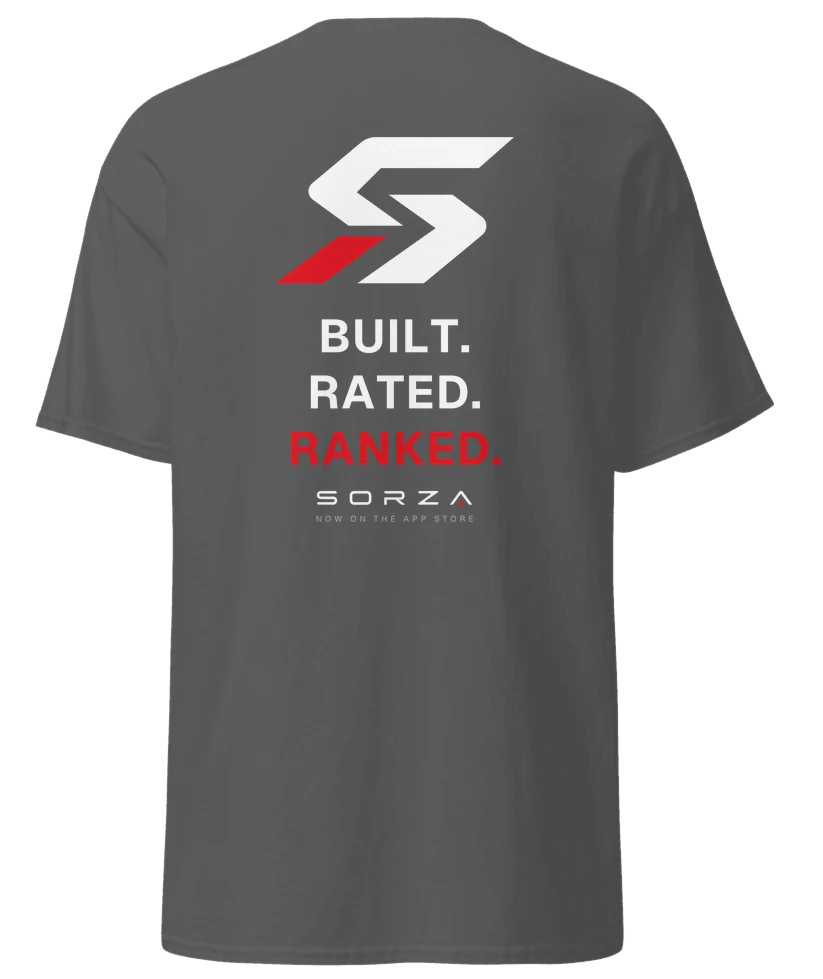
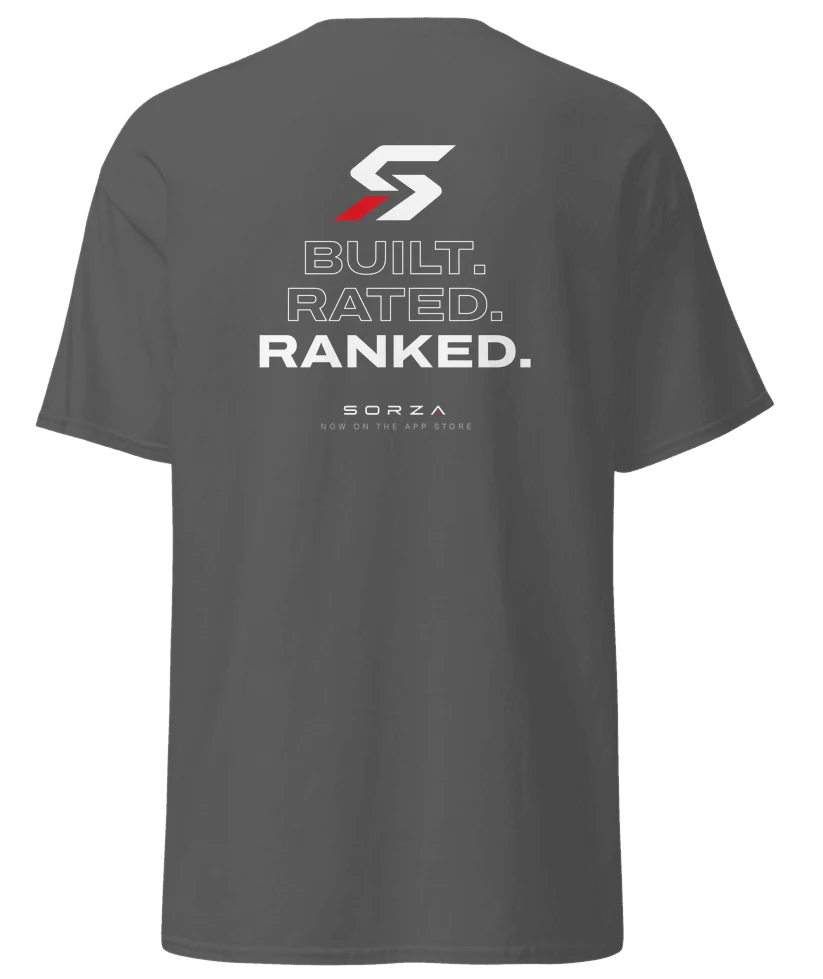
Redesign the Built. Rated. Ranked. tee
The S on the chest; on the back the S over BUILT. RATED. RANKED., the
first two as outlines and RANKED solid, then the wordmark. Vector, at
300 DPI. Red RANKED goes muddy on dark heather, so the grey shirt takes
its own print file (printFor: { grey: "heather" }) with it in white.

Changed region(s): [[0.3038, 0.1226, 0.6379, 0.5209]]

diff --git a/src/lib/merch/products.ts b/src/lib/merch/products.ts
@@ -11,9 +11,10 @@
  * Print files: public/merch/print, in two inks: dark for the light shirts
  * (white, sky), white for black and grey. The core designs come from
  * scripts/make-tee-print-files.py at 1800x2400 (150 DPI); the Limited Vice
- * City tee's ("sunset") colour-fade S, palms and type are vector, rendered
- * separately at 3600x4800 (300 DPI) over the same 12x16 in. area, so they
- * print as sharp as Printful prints. Shop photos:
+ * City tee ("sunset") and the reworked Built. Rated. Ranked. are vector,
+ * rendered separately at 3600x4800 (300 DPI) over the same 12x16 in. area,
+ * so they print as sharp as Printful prints. Built. Rated. Ranked. has a
+ * third print file for dark heather (see printFor). Shop photos:
  * public/merch/3d and /4k, on Printful's own blank photos.
  */
 export type TeeDesignId = "sunset" | "big-s" | "built-rated-ranked" | "wordmark";
@@ -82,6 +83,9 @@ export interface TeeDesign {
   detail: string;
   /** A limited drop: no new orders after this instant (UTC). */
   endsAt?: string;
+  /** Shirts that take their own print file instead of their colour's
+   * usual ink, e.g. "heather" for a version tuned for dark heather. */
+  printFor?: Partial<Record<TeeColor, string>>;
 }
 
 export const TEE_DESIGNS: TeeDesign[] = [
@@ -106,7 +110,9 @@ export const TEE_DESIGNS: TeeDesign[] = [
     name: "Built. Rated. Ranked.",
     colors: CORE_COLORS,
     defaultColor: "white",
-    detail: "S on the chest, the S and “Built. Rated. Ranked.” on the back",
+    detail: "The S on the chest; on the back the S over “Built. Rated. Ranked.”, from outline to solid",
+    // red RANKED goes muddy on dark heather, so that shirt's is white
+    printFor: { grey: "heather" },
   },
   {
     id: "wordmark",
@@ -182,7 +188,7 @@ export function teeColorForVariant(variantId: number): TeeColor | null {
 /** The print files Printful downloads: the front and back of the design,
  * in the ink that shows on that shirt. */
 export function teePrintFiles(designId: TeeDesignId, color: TeeColor, siteUrl: string): { type: "front" | "back"; url: string }[] {
-  const ink = TEE_COLOR_INFO[color].ink;
+  const ink = teeById(designId)?.printFor?.[color] ?? TEE_COLOR_INFO[color].ink;
   return (["front", "back"] as const).map((type) => ({ type, url: `${siteUrl}/merch/print/${designId}-${type}-${ink}.png` }));
 }
 

diff --git a/src/lib/merch/products.test.ts b/src/lib/merch/products.test.ts
@@ -104,6 +104,13 @@ describe("tee catalog", () => {
     // sky is a light shirt, so it takes the dark-ink print like white
     expect(teePrintFiles("sunset", "sky", "https://sorza.net")[1].url).toBe("https://sorza.net/merch/print/sunset-back-ink.png");
     expect(teePrintFiles("sunset", "black", "https://sorza.net")[0].url).toBe("https://sorza.net/merch/print/sunset-front-white.png");
+    // Built. Rated. Ranked. has its own file for dark heather; its others follow the shirt's ink
+    expect(teePrintFiles("built-rated-ranked", "grey", "https://sorza.net")[1].url).toBe(
+      "https://sorza.net/merch/print/built-rated-ranked-back-heather.png",
+    );
+    expect(teePrintFiles("built-rated-ranked", "black", "https://sorza.net")[1].url).toBe(
+      "https://sorza.net/merch/print/built-rated-ranked-back-white.png",
+    );
   });
 
   it("has shop photos for each design in each colour", () => {
